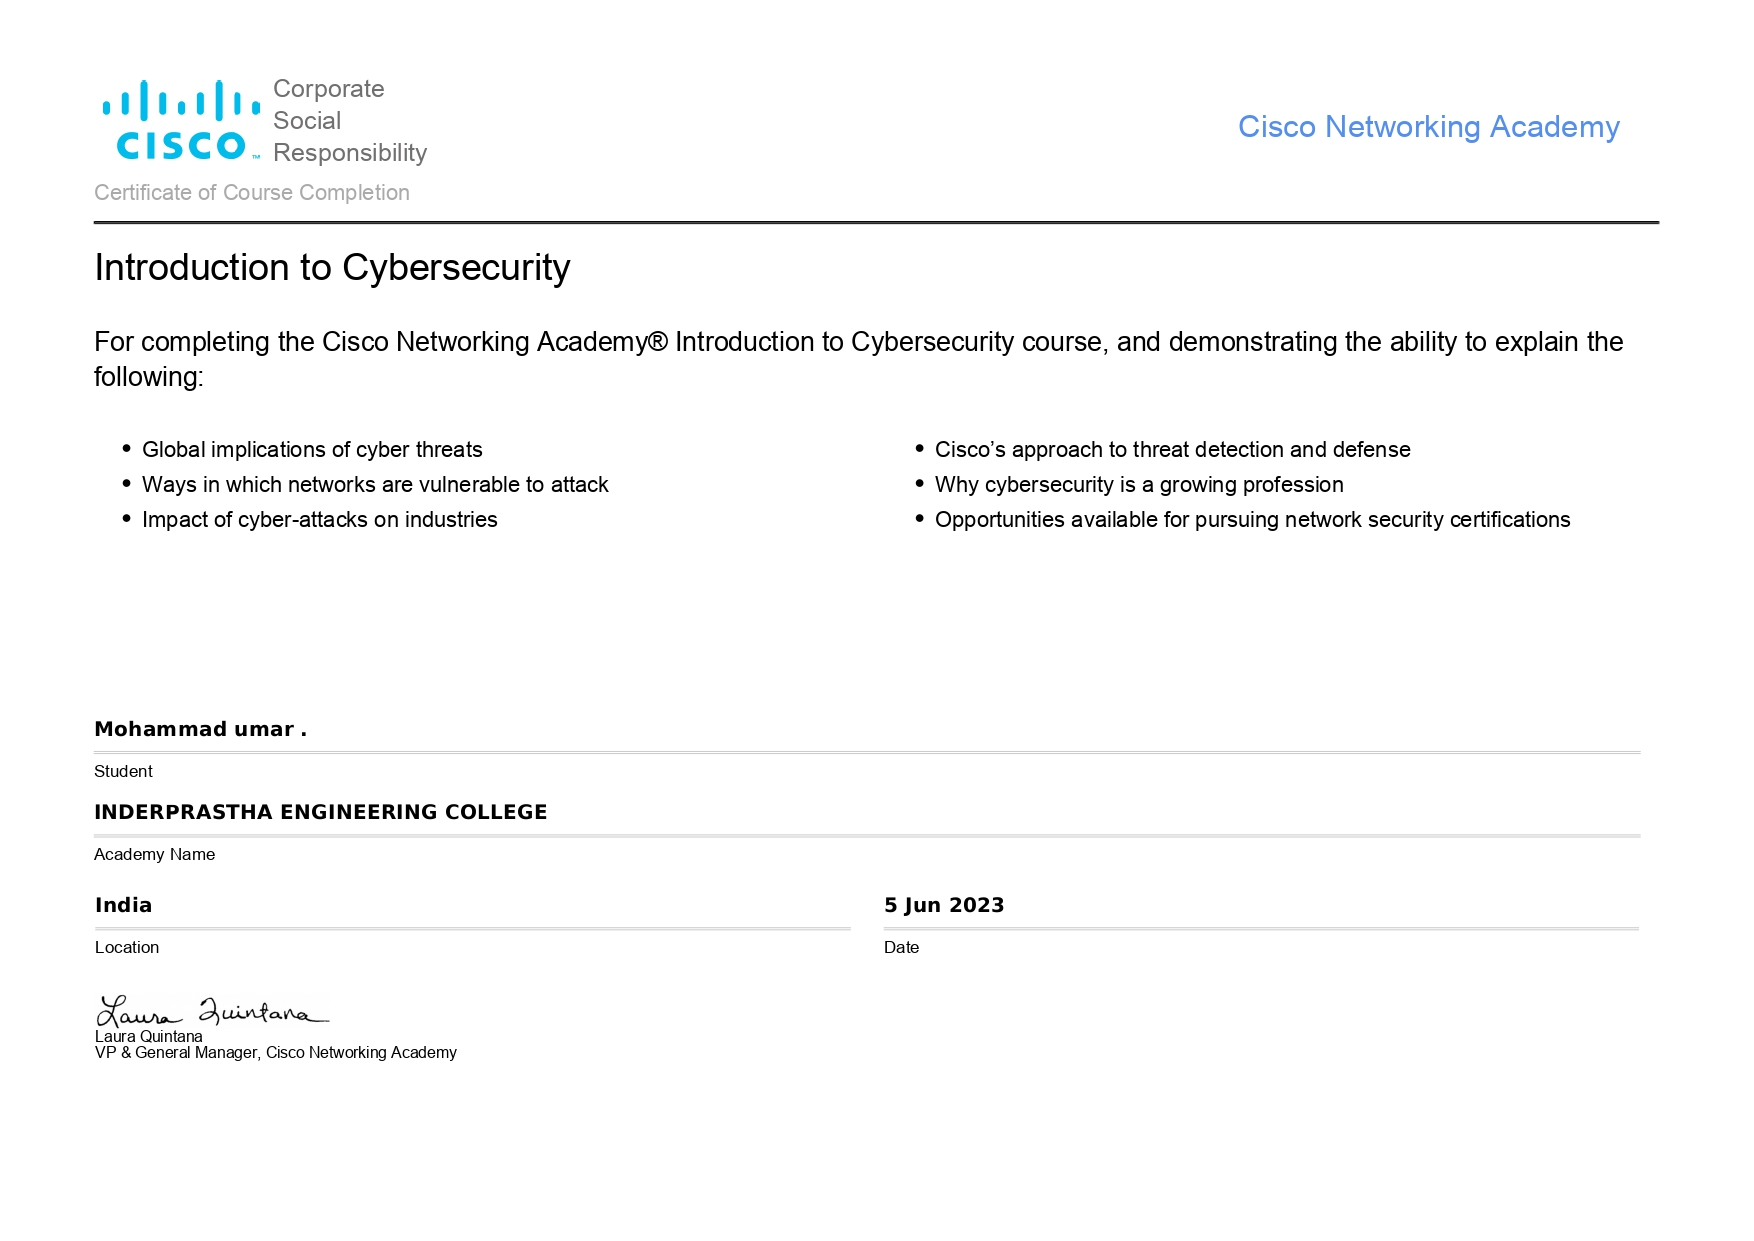
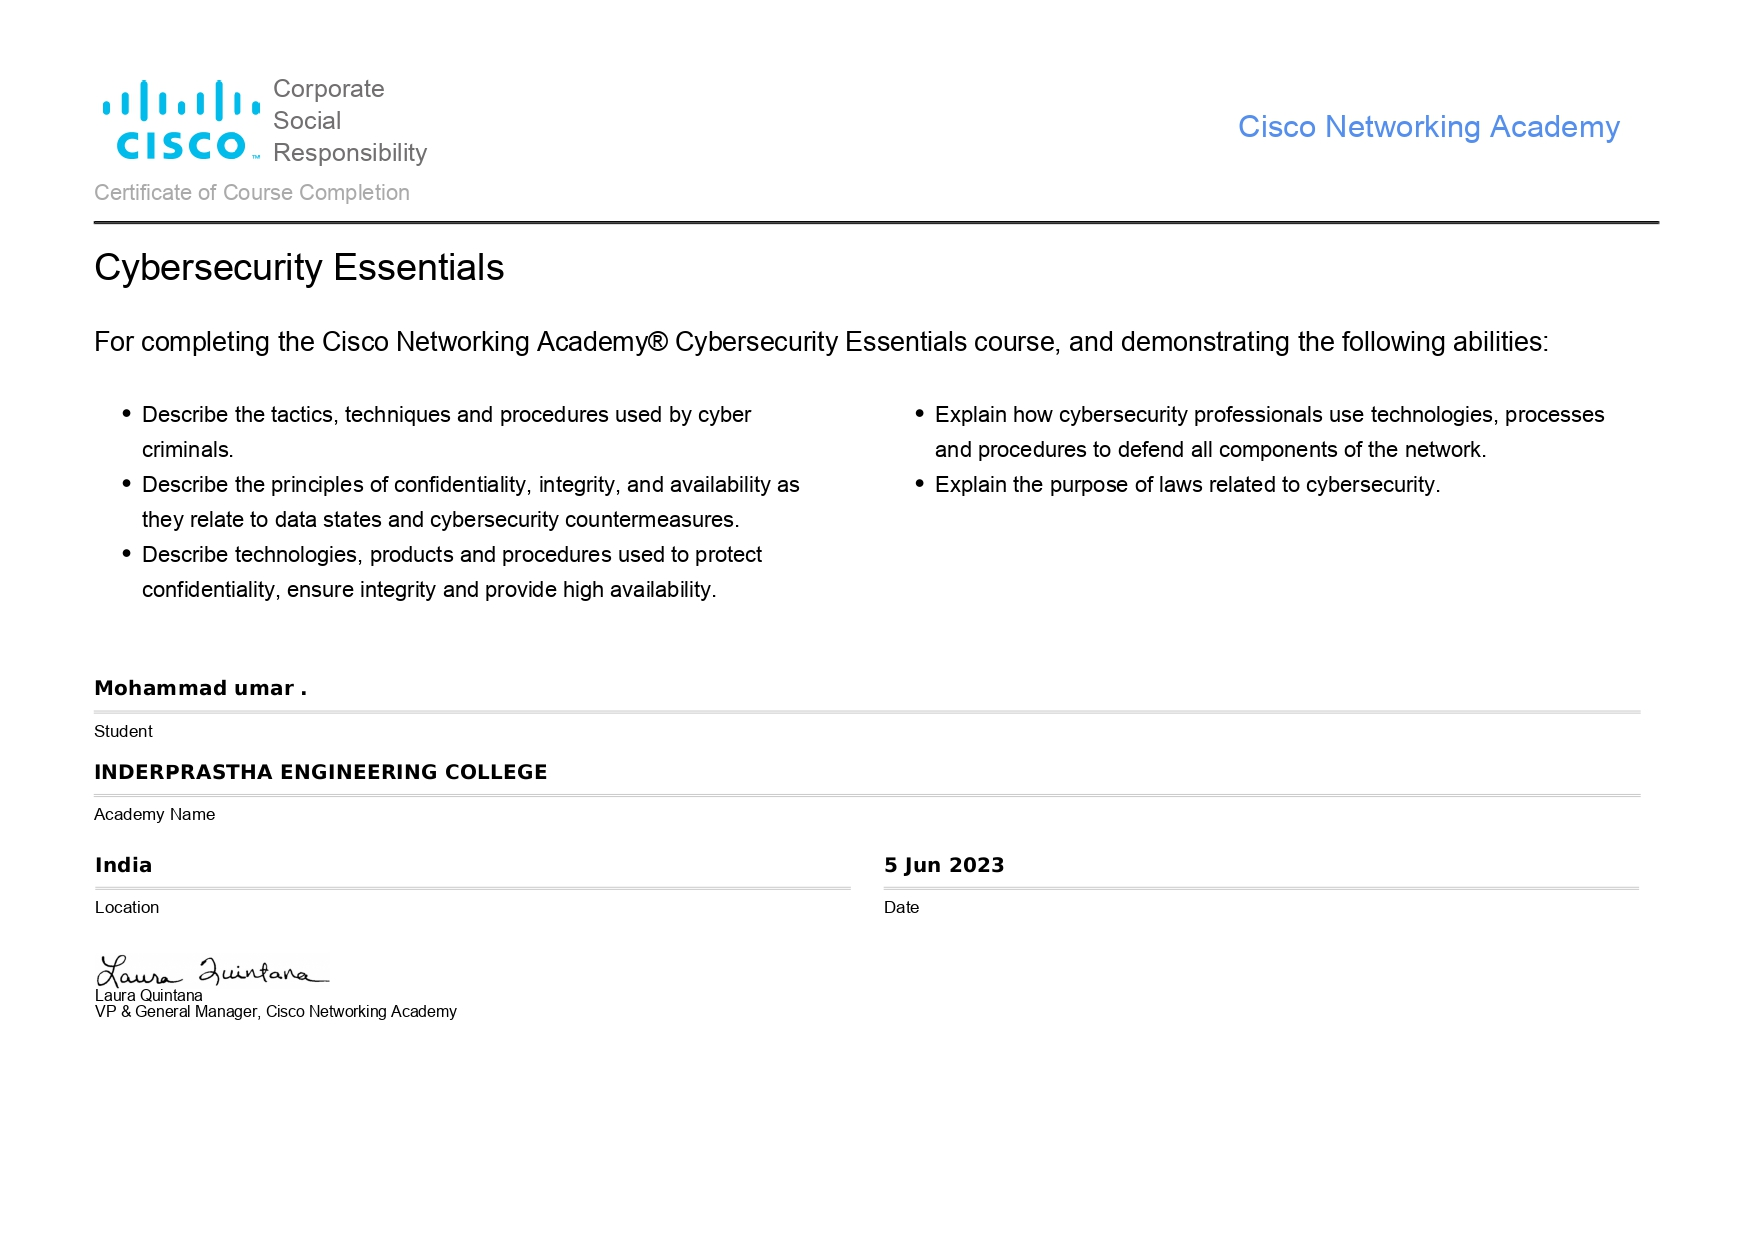
photo add

diff --git a/src/components/ResumePreview.jsx b/src/components/ResumePreview.jsx
@@ -1,0 +1,93 @@
+import { useEffect, useRef, useState } from 'react';
+import { X, Download } from 'lucide-react';
+import { PROFILE } from '../data/content';
+
+export default function ResumePreview() {
+  const [open, setOpen] = useState(false);
+  const closeBtnRef = useRef(null);
+  const dialogRef = useRef(null);
+
+  useEffect(() => {
+    const onOpen = () => setOpen(true);
+    window.addEventListener('open-resume-preview', onOpen);
+    return () => window.removeEventListener('open-resume-preview', onOpen);
+  }, []);
+
+  useEffect(() => {
+    if (!open) return;
+    const prevOverflow = document.body.style.overflow;
+    document.body.style.overflow = 'hidden';
+    closeBtnRef.current?.focus();
+
+    const onKeyDown = (e) => {
+      if (e.key === 'Escape') {
+        setOpen(false);
+        return;
+      }
+      if (e.key === 'Tab' && dialogRef.current) {
+        const focusables = dialogRef.current.querySelectorAll('button, a[href]');
+        if (focusables.length === 0) return;
+        const first = focusables[0];
+        const last = focusables[focusables.length - 1];
+        if (e.shiftKey && document.activeElement === first) {
+          e.preventDefault();
+          last.focus();
+        } else if (!e.shiftKey && document.activeElement === last) {
+          e.preventDefault();
+          first.focus();
+        }
+      }
+    };
+    document.addEventListener('keydown', onKeyDown);
+    return () => {
+      document.body.style.overflow = prevOverflow;
+      document.removeEventListener('keydown', onKeyDown);
+    };
+  }, [open]);
+
+  if (!open) return null;
+
+  return (
+    <div
+      className="fixed inset-0 z-[100] bg-black/80 backdrop-blur-sm flex items-center justify-center p-4"
+      onClick={() => setOpen(false)}
+    >
+      <div
+        ref={dialogRef}
+        role="dialog"
+        aria-modal="true"
+        aria-label="Resume preview"
+        className="relative w-full max-w-3xl h-[85vh] bg-panel border border-line rounded-lg overflow-hidden flex flex-col"
+        onClick={(e) => e.stopPropagation()}
+      >
+        <div className="flex items-center justify-between px-4 py-3 border-b border-line shrink-0">
+          <span className="font-mono text-dim text-xs tracking-widest">RESUME</span>
+          <div className="flex items-center gap-2">
+            
+              <a href={PROFILE.resumeUrl}
+              download
+              aria-label="Download resume"
+              className="flex items-center gap-1.5 px-3 py-1.5 rounded border border-line text-ink hover:text-signal hover:border-signal/40 transition-colors font-mono text-xs"
+            >
+              <Download size={13} /> Download
+            </a>
+            <button
+              ref={closeBtnRef}
+              onClick={() => setOpen(false)}
+              aria-label="Close resume preview"
+              className="w-8 h-8 flex items-center justify-center rounded-full border border-line text-ink hover:text-signal transition-colors"
+            >
+              <X size={16} />
+            </button>
+          </div>
+        </div>
+
+        <iframe
+          src={PROFILE.resumeUrl}
+          title="Resume preview"
+          className="flex-1 w-full bg-void"
+        />
+      </div>
+    </div>
+  );
+}

diff --git a/src/components/Navbar.jsx b/src/components/Navbar.jsx
@@ -36,7 +36,11 @@ export default function Navbar() {
 
         <div className="hidden md:flex items-center gap-7">
           {LINKS.map(l => (
-            <a key={l.href} href={l.href} className="font-mono text-sm text-dim hover:text-signal transition-colors tracking-wide">
+            
+            <a  key={l.href}
+              href={l.href}
+              className="font-mono text-sm text-dim hover:text-signal transition-colors tracking-wide"
+            >
               {l.label}
             </a>
           ))}
@@ -52,15 +56,13 @@ export default function Navbar() {
             <Command size={12} /> K
           </button>
 
-          
-          <a  href={PROFILE.resumeUrl}
-            target="_blank"
-            rel="noreferrer"
+          <button
+            onClick={() => window.dispatchEvent(new Event('open-resume-preview'))}
             aria-label="View resume"
             className="flex items-center gap-1.5 px-3 h-8 rounded-full border border-line bg-panel/50 text-ink hover:text-signal hover:border-signal/40 transition-colors font-mono text-xs"
           >
             <FileText size={13} /> View Resume
-          </a>
+          </button>
 
           
           <a  href={PROFILE.resumeUrl}
@@ -84,15 +86,29 @@ export default function Navbar() {
       {mobileOpen && (
         <div className="md:hidden bg-void/95 backdrop-blur-md border-b border-line px-6 py-5 flex flex-col gap-4">
           {LINKS.map(l => (
-            <a key={l.href} href={l.href} onClick={() => setMobileOpen(false)} className="font-mono text-base text-dim hover:text-signal transition-colors">
+            
+            <a  key={l.href}
+              href={l.href}
+              onClick={() => setMobileOpen(false)}
+              className="font-mono text-base text-dim hover:text-signal transition-colors"
+            >
               {l.label}
             </a>
           ))}
+
           <div className="flex flex-col gap-2 pt-2 border-t border-line">
-            <a href={PROFILE.resumeUrl} target="_blank" rel="noreferrer" className="flex items-center gap-2 font-mono text-sm text-dim hover:text-signal transition-colors">
+            <button
+              onClick={() => { window.dispatchEvent(new Event('open-resume-preview')); setMobileOpen(false); }}
+              className="flex items-center gap-2 font-mono text-sm text-dim hover:text-signal transition-colors text-left"
+            >
               <FileText size={15} /> View Resume
-            </a>
-            <a href={PROFILE.resumeUrl} download className="flex items-center gap-2 font-mono text-sm text-dim hover:text-signal transition-colors">
+            </button>
+
+            
+            <a  href={PROFILE.resumeUrl}
+              download
+              className="flex items-center gap-2 font-mono text-sm text-dim hover:text-signal transition-colors"
+            >
               <Download size={15} /> Download Resume
             </a>
             <div className="flex gap-3 pt-2">

diff --git a/src/components/CommandPalette.jsx b/src/components/CommandPalette.jsx
@@ -26,7 +26,6 @@ export default function CommandPalette() {
     };
     document.addEventListener('keydown', onKey);
 
-    // allows other components (e.g. the navbar hint button) to open it too
     const onExternalOpen = () => setOpen(true);
     window.addEventListener('open-command-palette', onExternalOpen);
 
@@ -84,16 +83,28 @@ export default function CommandPalette() {
           </Command.Group>
 
           <Command.Group heading="Actions" className="text-dim text-[10px] tracking-widest px-3 py-1.5 mt-2">
-            <Command.Item onSelect={() => openLink(PROFILE.github)} className="px-3 py-2 rounded text-ink cursor-pointer aria-selected:bg-line/60 aria-selected:text-signal">
+            <Command.Item
+              onSelect={() => openLink(PROFILE.github)}
+              className="px-3 py-2 rounded text-ink cursor-pointer aria-selected:bg-line/60 aria-selected:text-signal"
+            >
               Open GitHub
             </Command.Item>
-            <Command.Item onSelect={() => openLink(PROFILE.linkedin)} className="px-3 py-2 rounded text-ink cursor-pointer aria-selected:bg-line/60 aria-selected:text-signal">
+            <Command.Item
+              onSelect={() => openLink(PROFILE.linkedin)}
+              className="px-3 py-2 rounded text-ink cursor-pointer aria-selected:bg-line/60 aria-selected:text-signal"
+            >
               Open LinkedIn
             </Command.Item>
-            <Command.Item onSelect={copyEmail} className="px-3 py-2 rounded text-ink cursor-pointer aria-selected:bg-line/60 aria-selected:text-signal">
+            <Command.Item
+              onSelect={copyEmail}
+              className="px-3 py-2 rounded text-ink cursor-pointer aria-selected:bg-line/60 aria-selected:text-signal"
+            >
               Copy email address
             </Command.Item>
-            <Command.Item onSelect={() => openLink(PROFILE.resumeUrl)} className="px-3 py-2 rounded text-ink cursor-pointer aria-selected:bg-line/60 aria-selected:text-signal">
+            <Command.Item
+              onSelect={() => { setOpen(false); window.dispatchEvent(new Event('open-resume-preview')); }}
+              className="px-3 py-2 rounded text-ink cursor-pointer aria-selected:bg-line/60 aria-selected:text-signal"
+            >
               View resume
             </Command.Item>
           </Command.Group>

diff --git a/src/App.jsx b/src/App.jsx
@@ -11,6 +11,7 @@ import CustomCursor from './components/CustomCursor';
 import ParallaxGrid from './components/ParallaxGrid';
 import BootSequence from './components/BootSequence';
 import CommandPalette from './components/CommandPalette';
+import ResumePreview from './components/ResumePreview';
 
 export default function App() {
   return (
@@ -21,6 +22,7 @@ export default function App() {
       <CustomCursor />
       <ParallaxGrid />
       <CommandPalette />
+      <ResumePreview />
       <main className="relative">
         <Navbar />
         <Hero />
